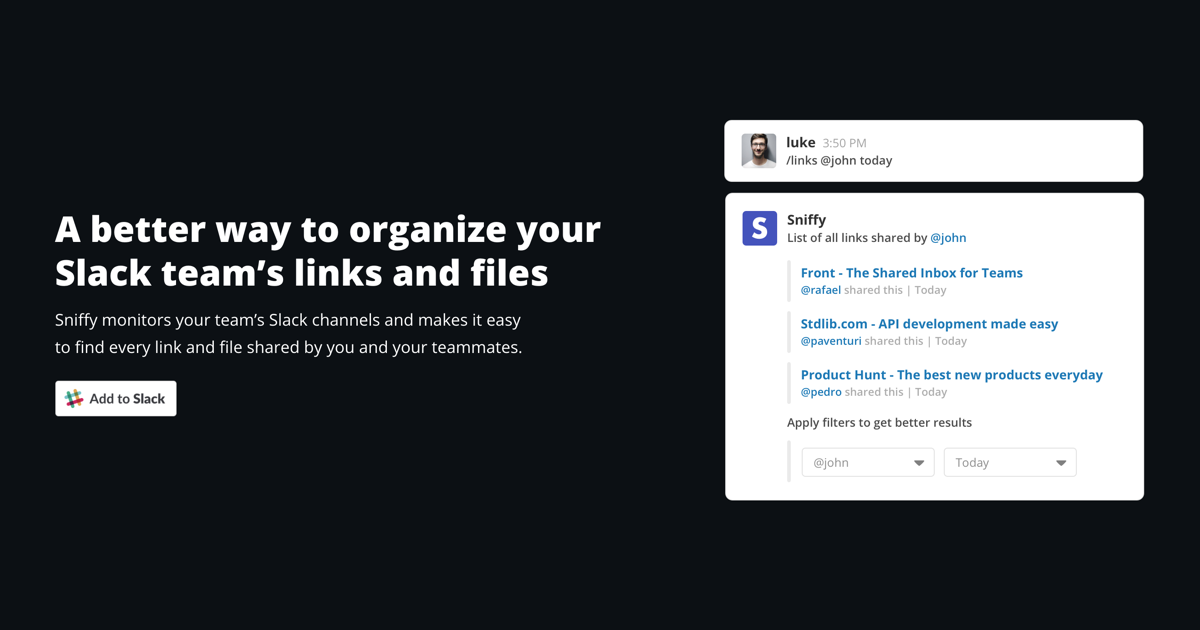
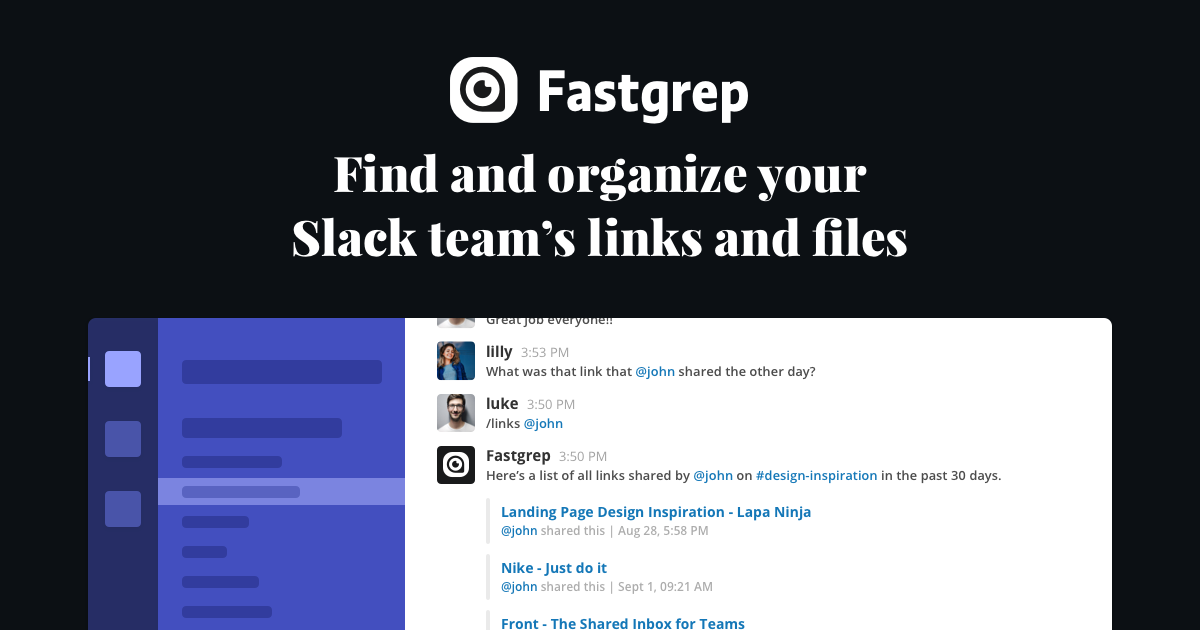
fixes

diff --git a/index.html b/index.html
@@ -2,23 +2,23 @@
 
 <head>
     <meta http-equiv="Content-Type" content="text/html; charset=UTF-8" />
-    <title>Sniffy | Find and organize your Slack team’s links and files</title>
+    <title>Fastgrep | Find and organize your Slack team’s links and files</title>
     <link href="https://fonts.googleapis.com/css?family=Open+Sans:400,600,800" rel="stylesheet">
     <link href="https://fonts.googleapis.com/css?family=Playfair+Display:900" rel="stylesheet">
     <link href="https://fonts.googleapis.com/css?family=Overpass+Mono" rel="stylesheet">
     <link rel="stylesheet" href="css/stylesheet.css">
-    <meta name="author" content="Sniffy | Find and organize your Slack team’s links and files">
+    <meta name="author" content="Fastgrep | Find and organize your Slack team’s links and files">
     <meta name="viewport" content="width=device-width, initial-scale=1.0, user-scalable=no">
-    <meta property="og:title" content="Sniffy | Find and organize your Slack team’s links and files">
-    <meta property="og:description" content="Sniffy monitors your team’s Slack channels and makes it easy to find every link and file shared by you and your teammates.">
+    <meta property="og:title" content="Fastgrep | Find and organize your Slack team’s links and files">
+    <meta property="og:description" content="Fastgrep monitors your team’s Slack channels and makes it easy to find every link and file shared by you and your teammates.">
     <meta property="og:type" content="website">
     <meta property="og:image" content="https://phmarques1.github.io/sniffyProject/img/socialsharing.png">
-    <meta property="og:site_name" content="Sniffy | Find and organize your Slack team’s links and files">
+    <meta property="og:site_name" content="Fastgrep | Find and organize your Slack team’s links and files">
     <meta property="og:locale" content="en_US">
-    <meta property="og:url" content="https://www.sniffy.me/">
-    <meta name="description" content="Sniffy monitors your team’s Slack channels and makes it easy to find every link and file shared by you and your teammates."> 
+    <meta property="og:url" content="https://www.fastgrep.io/">
+    <meta name="description" content="Fastgrep monitors your team’s Slack channels and makes it easy to find every link and file shared by you and your teammates."> 
     <meta name="keywords" content="app, development, mobile, design, ux, ui, digital, slack, designer, ios, android, iphone, files, dev, modern, links, mvp, startups, enterprises, bot">
-    <link rel="canonical" href="http://sniffy.me">
+    <link rel="canonical" href="http://fastgrep.io/">
 
 </head>
 
